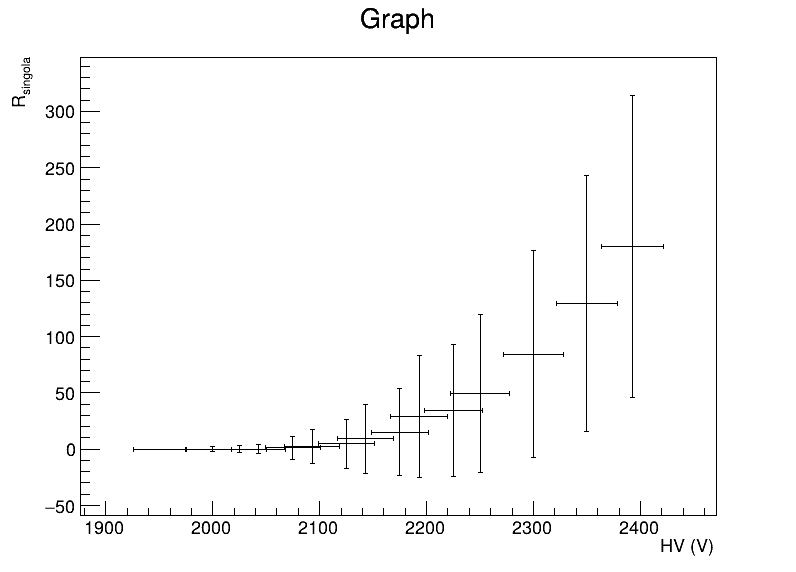
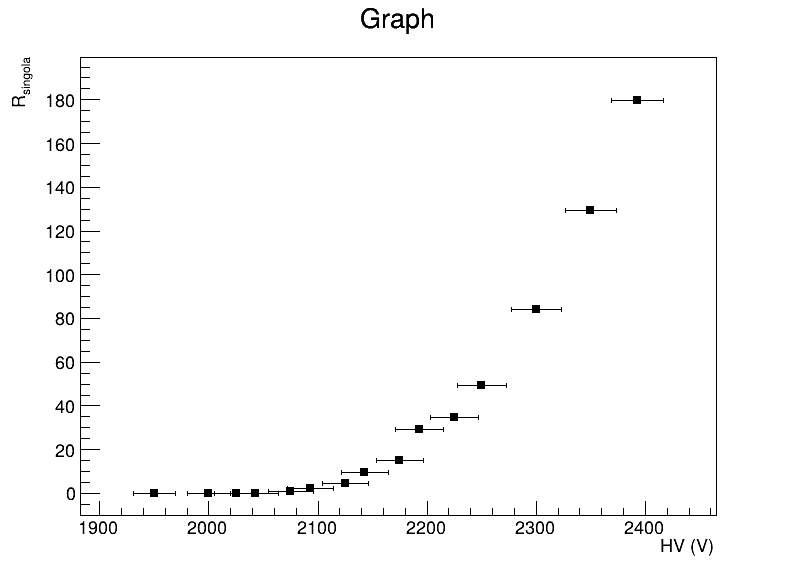
manca ancora la fit function

diff --git a/LAB_nucl_efficienza.C b/LAB_nucl_efficienza.C
@@ -28,9 +28,9 @@ void LAB_nucl_efficienza(){
     //
     vector<double> coin_doppie={252, 244, 250, 276, 256, 260, 275, 271, 271, 245, 261, 252, 266, 258, 248};
     //
-    vector<double> coin_triple= {238, 113, 30, 3, 1, 0, 1, 13, 72, 164, 248, 243, 259, 249, 245};
+    vector<double> coin_triple= {238, 113, 30, 3, 1, 0.0000000000001, 1, 13, 72, 164, 248, 243, 259, 249, 245};
     //
-    vector<double> coin_singole= {2933, 938, 236, 15, 6, 0, 11, 110, 472, 1509, 3461, 4951, 8427, 12954, 17980};
+    vector<double> coin_singole= {2933, 938, 236, 15, 6, 0.0000000000000001, 11, 110, 472, 1509, 3461, 4951, 8427, 12954, 17980};
     //
     double tempo_daq=100; //intervallo di tempo dell'acquisizione dati
     //
@@ -85,8 +85,9 @@ void LAB_nucl_efficienza(){
     //Riempimento errori su HV
     for(vector<double>::const_iterator it= HV.begin(); it!= HV.end(); it++){
         double x= *it;
-        double err= x/100 + 5; //(errore dell'1% + 5 V da manuale)
+        double err= x/100; //(errore dell'1% + 5 V da manuale)
         err_HV.push_back(err);
+       
     }
     //
     //riempimento errori su coin_doppie
@@ -138,6 +139,7 @@ void LAB_nucl_efficienza(){
         double err_rel_rate= pow(err_rel_rate_quad, 0.5);
         double err_ass_rate= err_rel_rate* R_singole[i];
         err_R_singole.push_back(err_ass_rate);
+        
     }
     //
     //++++++++++++++++++++++++++++++++++++++
@@ -172,7 +174,10 @@ void LAB_nucl_efficienza(){
     gr1->GetXaxis()->SetTitle("HV (V)");
     gr1->GetYaxis()->SetTitle("\epsilon");
     gr1->SetTitle("Grafico efficienza-tensione per scintillatore B");
+     gr1->SetMinimum(-1);
+     gr1->SetMarkerStyle(21);
     gr1->Draw("AP");
+   
     c1->Print("Grafico_eff_HV.png", "png");
 
 
@@ -184,9 +189,11 @@ void LAB_nucl_efficienza(){
     //GRAFICO   Rsingola-HV
     TCanvas* c2= new TCanvas("c2", "R_singola-tensione", 800, 600);
     //
-    TGraphErrors* gr2= new TGraphErrors(numero_elementi, HV.data(), R_singole.data(), err_HV.data(), err_coin_singole.data());
+    TGraphErrors* gr2= new TGraphErrors(numero_elementi, HV.data(), R_singole.data(), err_HV.data(), err_R_singole.data());
     gr2->GetXaxis()->SetTitle("HV (V)");
     gr2->GetYaxis()->SetTitle("R_{singola}");
+    gr2->SetMinimum(-10);
+    gr2->SetMarkerStyle(21);
     gr1->SetTitle("Grafico conteggi-tensione per scintillatore B");
     c2->cd();
     gr2->Draw("AP.");
